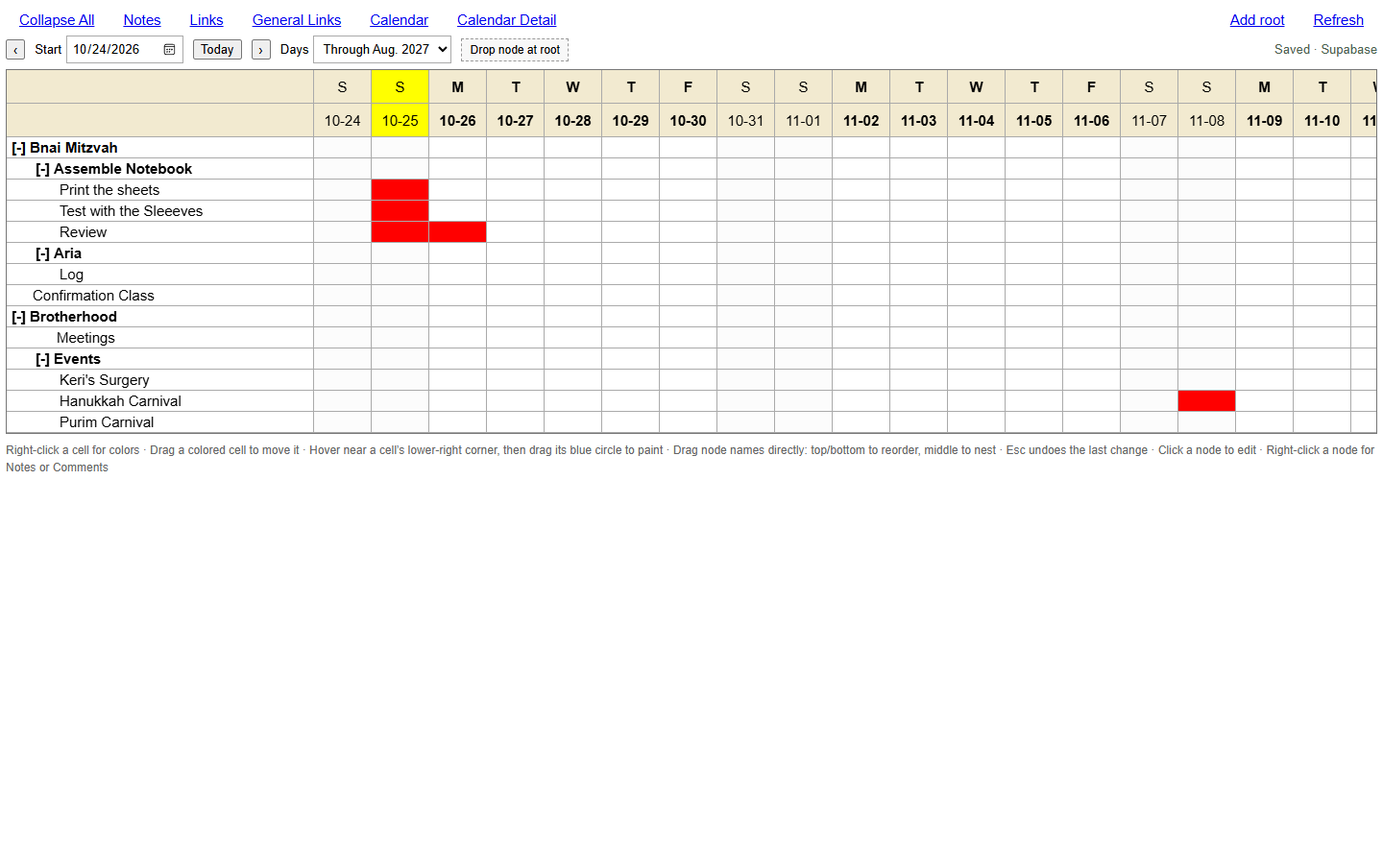
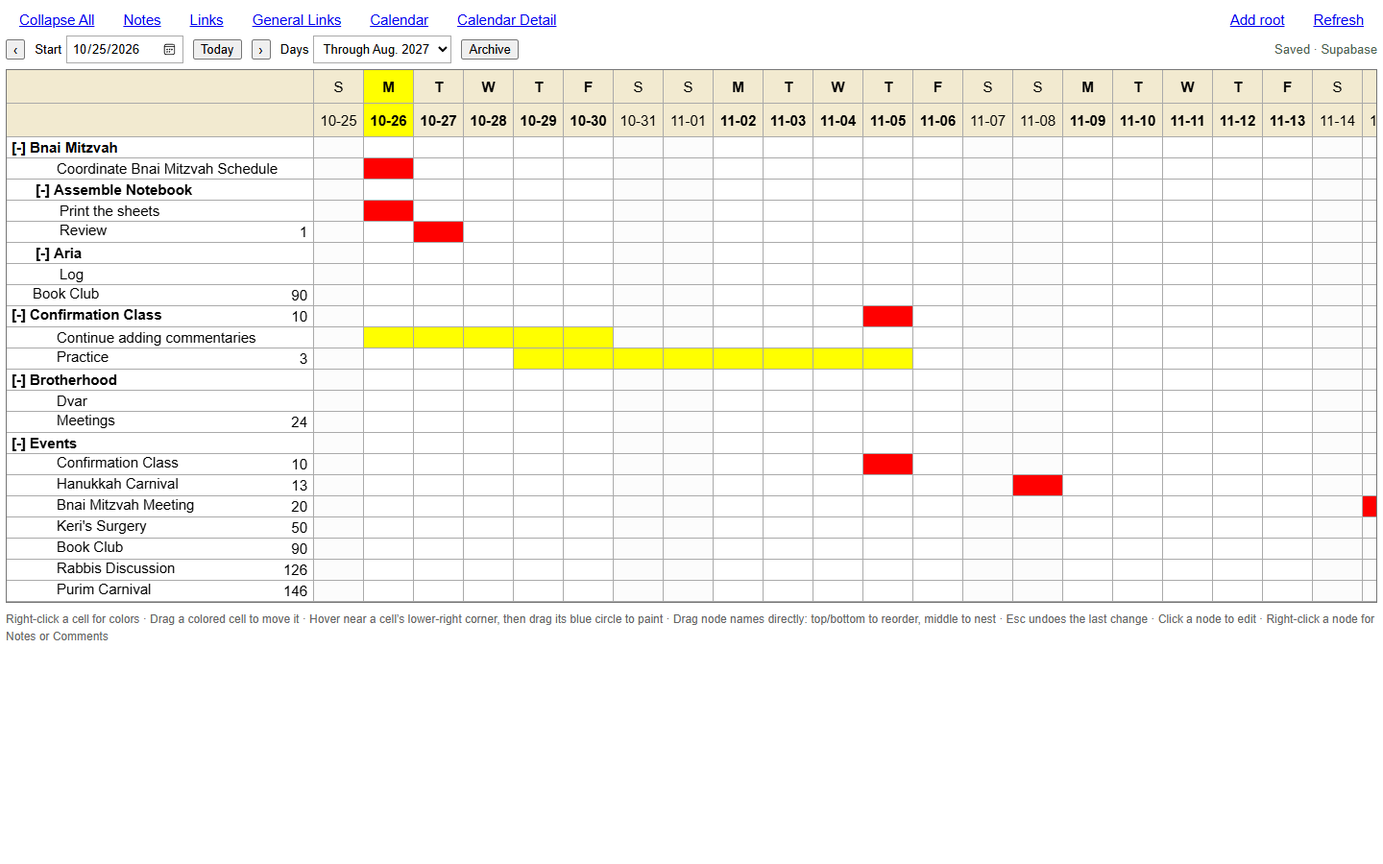
Use red yellow green schedules, compact dates, and archive controls

diff --git a/src/app.js b/src/app.js
@@ -1,6 +1,6 @@
 import './style.css';
 import * as api from './api.js';
-import {children,level,height,visible,actions,iso,addDays} from './model.js';
+import {children,level,height,visible,archivedRoots,actions,iso,addDays} from './model.js';
 import {nodeDrop,dayOffset,cellTooltip,nodeDayOffset,rangesOf as barRanges,colorsOn as barColors,colorFill} from './interactions.js';
 import {installGridInteractions} from './grid-events.js';
 import {actionDiff} from './history.js';
@@ -26,13 +26,13 @@ function dateCount(){return $('#days').value==='through-aug-2027'?Math.max(1,day
 function dates(){return Array.from({length:dateCount()},(_,i)=>addDays(start.value,i));}
 function select(id){selected=id;document.querySelectorAll('.node[data-id]').forEach(n=>n.classList.toggle('selected',n.dataset.id===id));}
 function selectCell(id,day){activeCell={id,day};select(id);document.querySelectorAll('.cell').forEach(cell=>{const active=cell.dataset.nodeId===id&&cell.dataset.day===day;cell.classList.toggle('cell-selected',active);cell.setAttribute('aria-selected',String(active));});}
-function render(){const parents=nodes.filter(n=>children(nodes,n.id).length),anyCollapsed=parents.some(n=>collapsed.has(n.id));$('#expand-toggle').textContent=anyCollapsed?'Expand All':'Collapse All';$('#expand-toggle').setAttribute('aria-expanded',String(!anyCollapsed));const table=el('table'),head=el('thead'),days=dates();
+function render(){const parents=visible(nodes,new Set()).filter(n=>children(nodes,n.id).some(child=>!child.archived)),anyCollapsed=parents.some(n=>collapsed.has(n.id));$('#expand-toggle').textContent=anyCollapsed?'Expand All':'Collapse All';$('#expand-toggle').setAttribute('aria-expanded',String(!anyCollapsed));const table=el('table'),head=el('thead'),days=dates();
  for(let row=0;row<2;row++){const tr=el('tr'),blank=el('th');blank.className='node head';blank.setAttribute('aria-label',row?'Dates':'Nodes');tr.append(blank);for(const day of days){const d=new Date(day+'T12:00:00'),th=el('th',row?day.slice(5):['S','M','T','W','T','F','S'][d.getDay()]);th.className=(d.getDay()%6===0?'weekend':'weekday')+(day===iso(new Date())?' today':'');th.dataset.day=day;th.setAttribute('aria-label',cellTooltip(day,undefined,iso(new Date())));th.setAttribute('aria-describedby','day-tooltip');tr.append(th);}head.append(tr);}table.append(head);
- const rows=visible(nodes,collapsed);let siblingAnchor=null;if(draft?.action==='Sibling'){const index=rows.findIndex(n=>n.id===draft.node.id);if(index>=0){let last=index;while(last+1<rows.length&&rows[last+1].depth>rows[index].depth)last++;siblingAnchor=rows[last].id;}}const body=el('tbody');for(const node of rows){const tr=el('tr'),td=el('td'),hasChildren=children(nodes,node.id).length>0;td.className='node'+(hasChildren?' parent':'')+(selected===node.id?' selected':'');td.dataset.id=node.id;td.draggable=true;td.tabIndex=0;td.style.paddingLeft=`${5+(node.depth-1)*25}px`;td.style.color=node.text_color;td.title=`${node.title} · Level ${node.depth}${node.notes?' · Has notes':''}`;
+ const rows=visible(nodes,collapsed);let siblingAnchor=null;if(draft?.action==='Sibling'){const index=rows.findIndex(n=>n.id===draft.node.id);if(index>=0){let last=index;while(last+1<rows.length&&rows[last+1].depth>rows[index].depth)last++;siblingAnchor=rows[last].id;}}const body=el('tbody');for(const node of rows){const tr=el('tr'),td=el('td'),hasChildren=children(nodes,node.id).some(child=>!child.archived);td.className='node'+(hasChildren?' parent':'')+(selected===node.id?' selected':'');td.dataset.id=node.id;td.draggable=true;td.tabIndex=0;td.style.paddingLeft=`${5+(node.depth-1)*25}px`;td.style.color=node.text_color;td.title=`${node.title} · Level ${node.depth}${node.notes?' · Has notes':''}`;
  if(hasChildren){const toggle=el('button',collapsed.has(node.id)?'[+]':'[-]');toggle.className='toggle';toggle.setAttribute('aria-label',`${collapsed.has(node.id)?'Expand':'Collapse'} ${node.title}`);toggle.setAttribute('aria-expanded',String(!collapsed.has(node.id)));toggle.onclick=e=>{e.stopPropagation();collapsed.has(node.id)?collapsed.delete(node.id):collapsed.add(node.id);remember();render();};td.append(toggle);}else if(node.depth<3){const space=el('span','');space.style.display='inline-block';space.style.width='22px';td.append(space);}
  const offset=nodeDayOffset(node,iso(new Date()));if(offset!==null&&offset!==0){const count=el('span',String(offset));count.className='node-offset';count.setAttribute('aria-label',`${offset} days from today`);td.append(count);}td.append(document.createTextNode(node.title));td.onclick=()=>{select(node.id);openEditor('Edit',node);};td.oncontextmenu=e=>{e.preventDefault();select(node.id);openMenu(node,e.clientX,e.clientY);};td.onkeydown=e=>{if(e.target!==td)return;if(e.key==='ContextMenu'||(e.shiftKey&&e.key==='F10')){e.preventDefault();const r=td.getBoundingClientRect();select(node.id);openMenu(node,r.left+30,r.bottom);}if(e.key==='Enter'){select(node.id);openEditor('Edit',node);}};tr.append(td);
  for(const day of days){const cell=el('td');const d=new Date(day+'T12:00:00');cell.className='cell'+(d.getDay()%6===0?' weekend-cell':'');cell.dataset.day=day;cell.dataset.nodeId=node.id;cell.classList.toggle('cell-selected',activeCell?.id===node.id&&activeCell?.day===day);cell.setAttribute('aria-selected',String(activeCell?.id===node.id&&activeCell?.day===day));cell.tabIndex=0;cell.setAttribute('aria-label',`${node.title}, ${day}`);const colors=barColors(node,day);if(colors.length){cell.classList.add('bar');cell.style.setProperty('--bar',colorFill(colors));}cell.setAttribute('aria-describedby','day-tooltip');const fill=el('button');fill.className='fill-handle';fill.type='button';fill.setAttribute('aria-label','Paint from this cell');fill.onclick=e=>{e.stopPropagation();};cell.append(fill);cell.onclick=()=>selectCell(node.id,day);cell.ondblclick=e=>{if(!e.target.closest('.fill-handle')){selectCell(node.id,day);openEditor('Edit',node,day);}};tr.append(cell);}if(draft?.action==='Add parent'&&draft.node.id===node.id)body.append(draftRow(days.length,node.depth));body.append(tr);if(draft?.action==='Add child'&&draft.node.id===node.id)body.append(draftRow(days.length,node.depth+1));if(node.id===siblingAnchor)body.append(draftRow(days.length,level(nodes,draft.node)));}if(draft?.action==='Add root')body.append(draftRow(days.length,1));table.append(body);$('#chart').replaceChildren(table);if(!nodes.length&&!draft){const empty=el('p','No nodes yet. Use Add root to begin.');empty.className='empty';$('#chart').append(empty);}}
-function openMenu(node,x,y){const menu=$('#menu');menu.replaceChildren();for(const action of actions(nodes,node)){const button=el('button',action);button.setAttribute('role','menuitem');button.onclick=()=>{menu.hidden=true;if(action==='Delete')deleteNode(node);else if(action==='Edit')openEditor(action,node);else if(action==='Notes')nodeDetails.openNotes(node);else if(action==='Comments')nodeDetails.openComments(node);else startDraft(action,node);};menu.append(button);}menu.hidden=false;const r=menu.getBoundingClientRect();menu.style.left=`${Math.max(0,Math.min(x,innerWidth-r.width-8))}px`;menu.style.top=`${Math.max(0,Math.min(y,innerHeight-r.height-8))}px`;menu.firstChild.focus();}
+function openMenu(node,x,y){const menu=$('#menu');menu.replaceChildren();for(const action of actions(nodes,node)){const button=el('button',action);button.setAttribute('role','menuitem');button.onclick=()=>{menu.hidden=true;if(action==='Delete')deleteNode(node);else if(action==='Edit')openEditor(action,node);else if(action==='Notes')nodeDetails.openNotes(node);else if(action==='Comments')nodeDetails.openComments(node);else if(action==='Archive')archiveNode(node);else startDraft(action,node);};menu.append(button);}menu.hidden=false;const r=menu.getBoundingClientRect();menu.style.left=`${Math.max(0,Math.min(x,innerWidth-r.width-8))}px`;menu.style.top=`${Math.max(0,Math.min(y,innerHeight-r.height-8))}px`;menu.firstChild.focus();}
 document.addEventListener('pointerdown',e=>{if(!$('#menu').contains(e.target))$('#menu').hidden=true;});document.addEventListener('keydown',e=>{if(e.key==='Escape'&&!$('#menu').hidden){e.preventDefault();$('#menu').hidden=true;}const m=$('#menu');if(!m.hidden&&['ArrowDown','ArrowUp'].includes(e.key)){e.preventDefault();const a=[...m.children],i=a.indexOf(document.activeElement);a[(i+(e.key==='ArrowDown'?1:a.length-1))%a.length].focus();}});
 function startDraft(action,node=null){
  if(busy)return;if(draft){status('Finish or cancel the new row first.',true);$('#draft-name')?.focus();return;}
@@ -60,7 +60,7 @@ function addRange(bar={}){
 $('#add-range').onclick=()=>addRange({start_date:iso(new Date()),end_date:iso(new Date())});
 function moveChoices(node){
  const choices=new Map([[1,[null]],[2,[]],[3,[]],[4,[]]]);
- for(const parent of nodes){try{nodeDrop(nodes,node,parent,'inside');choices.get(level(nodes,parent)+1)?.push(parent);}catch{}}
+ for(const parent of visible(nodes,new Set())){try{nodeDrop(nodes,node,parent,'inside');choices.get(level(nodes,parent)+1)?.push(parent);}catch{}}
  return choices;
 }
 function fillParents(){
@@ -90,6 +90,15 @@ $('#form').onsubmit=async e=>{
  data.start_date=data.bars[0]?.start_date||null;data.end_date=data.bars[0]?.end_date||null;data.color=data.bars[0]?.color||'#ef8080';
  $('#save').disabled=true;$('#cancel').disabled=true;try{const parentId=data.parent_id||null;if(parentId!==editing.node.parent_id){const parent=nodes.find(n=>n.id===parentId);if(parentId&&!parent)throw Error('The selected parent no longer exists.');Object.assign(data,nodeDrop(nodes,editing.node,parent||null,'inside'));}else delete data.parent_id;await mutate(async()=>{await api.update(editing.node.id,data);if('parent_id' in data){let parent=nodes.find(n=>n.id===data.parent_id);while(parent){collapsed.delete(parent.id);parent=nodes.find(n=>n.id===parent.parent_id);}remember();}selected=editing.node.id;});$('#editor').close();}catch(e){$('#form-error').textContent=e.message;}finally{$('#save').disabled=false;$('#cancel').disabled=false;}
 };
+async function archiveNode(node){try{await mutate(async()=>{await api.update(node.id,{archived:true});selected=null;activeCell=null;});}catch{}}
+function fillArchive(content){
+ content.replaceChildren();const archived=archivedRoots(nodes);
+ if(!archived.length){content.append(el('p','No archived nodes. Right-click a node and choose Archive to move its branch here.'));return;}
+ for(const node of archived){const entry=el('section'),path=[];let current=node;while(current){path.unshift(current.title);current=nodes.find(n=>n.id===current.parent_id);}entry.className='archive-entry';entry.append(el('span',path.join(' › ')));
+  const restore=el('button','Restore');restore.setAttribute('aria-label',`Restore ${node.title}`);restore.onclick=async()=>{restore.disabled=true;try{await mutate(async()=>{await api.update(node.id,{archived:false});let parent=nodes.find(n=>n.id===node.parent_id);while(parent){collapsed.delete(parent.id);parent=nodes.find(n=>n.id===parent.parent_id);}remember();selected=node.id;});fillArchive(content);}catch(e){content.append(el('p',e.message));restore.disabled=false;}};entry.append(restore);content.append(entry);
+ }
+}
+$('#archive').onclick=()=>showPanel('Archive',fillArchive);
 function deleteNode(node){const count=(function descendants(id){return children(nodes,id).reduce((s,n)=>s+1+descendants(n.id),0);})(node.id);showPanel('Delete node',content=>{content.append(el('p',`Delete “${node.title}”${count?` and its ${count} descendant${count===1?'':'s'}`:''}?`));const button=el('button','Delete');button.onclick=async()=>{button.disabled=true;try{await mutate(()=>api.remove(node.id));if(selected===node.id)selected=null;$('#panel').close();}catch(e){content.append(el('p',e.message));button.disabled=false;}};content.append(button);});}
 function showPanel(title,fill){$('#panel-title').textContent=title;$('#panel-content').replaceChildren();fill($('#panel-content'));$('#panel').showModal();}
 $('#panel-close').onclick=()=>$('#panel').close();
@@ -98,9 +107,9 @@ $('#notes').onclick=()=>{const n=selectedNode();if(n)nodeDetails.openNotes(n);};
 function appendLinks(content,text){for(const line of text.split('\n').filter(l=>l.trim())){try{const url=new URL(line.trim());if(!['http:','https:'].includes(url.protocol))throw Error();const a=el('a',line);a.href=url.href;a.target='_blank';a.rel='noopener noreferrer';content.append(a,el('br'));}catch{content.append(el('p',line));}}}
 $('#links').onclick=()=>{const n=selectedNode();if(n)showPanel(`Links · ${n.title}`,c=>{if(n.links)appendLinks(c,n.links);else c.append(el('p','No links yet.'));const b=el('button','Edit links');b.onclick=()=>{$('#panel').close();openEditor('Edit',n);$('#form').elements.links.focus();};c.append(b);});};
 $('#general').onclick=async()=>{try{const [settings]=await api.request('gantt03_settings?id=eq.1');showPanel('General Links',c=>{appendLinks(c,settings.general_links);const label=el('label','URLs, one per line'),text=el('textarea');text.rows=7;text.value=settings.general_links;label.append(text);c.append(label);const save=el('button','Save links');save.onclick=async()=>{save.disabled=true;try{await mutate(()=>api.request('gantt03_settings?id=eq.1','PATCH',{general_links:text.value}));$('#panel').close();}catch(e){c.append(el('p',e.message));save.disabled=false;}};c.append(save);});}catch(e){status(e.message,true);}};
-function calendar(detail){showPanel(detail?'Calendar Detail':'Calendar',c=>{const end=addDays(start.value,dateCount()-1),scheduled=nodes.flatMap(n=>barRanges(n).map(bar=>({...n,...bar}))).filter(n=>n.start_date&&n.start_date<=end&&(n.end_date||n.start_date)>=start.value).sort((a,b)=>a.start_date.localeCompare(b.start_date));c.append(el('p',`${start.value} — ${end}`));if(!scheduled.length)c.append(el('p','No scheduled nodes in this date range.'));for(const n of scheduled){const section=el('section'),b=el('button',`${n.start_date}${n.end_date&&n.end_date!==n.start_date?' — '+n.end_date:''} · ${n.title}`);b.className='calendar-event';b.style.borderLeft='8px solid '+(/^#[0-9a-f]{6}$/i.test(n.color)?n.color:'#ef8080');b.onclick=()=>{$('#panel').close();openEditor('Edit',n);};section.append(b);if(detail){const path=[];let p=n;while(p){path.unshift(p.title);p=nodes.find(x=>x.id===p.parent_id);}section.append(el('p',path.join(' › ')),el('p',n.notes||'No notes'));appendLinks(section,n.links);}c.append(section);}});}
+function calendar(detail){showPanel(detail?'Calendar Detail':'Calendar',c=>{const end=addDays(start.value,dateCount()-1),scheduled=visible(nodes,new Set()).flatMap(n=>barRanges(n).map(bar=>({...n,...bar}))).filter(n=>n.start_date&&n.start_date<=end&&(n.end_date||n.start_date)>=start.value).sort((a,b)=>a.start_date.localeCompare(b.start_date));c.append(el('p',`${start.value} — ${end}`));if(!scheduled.length)c.append(el('p','No scheduled nodes in this date range.'));for(const n of scheduled){const section=el('section'),b=el('button',`${n.start_date}${n.end_date&&n.end_date!==n.start_date?' — '+n.end_date:''} · ${n.title}`);b.className='calendar-event';b.style.borderLeft='8px solid '+(/^#[0-9a-f]{6}$/i.test(n.color)?n.color:'#ef8080');b.onclick=()=>{$('#panel').close();openEditor('Edit',n);};section.append(b);if(detail){const path=[];let p=n;while(p){path.unshift(p.title);p=nodes.find(x=>x.id===p.parent_id);}section.append(el('p',path.join(' › ')),el('p',n.notes||'No notes'));appendLinks(section,n.links);}c.append(section);}});}
 $('#calendar').onclick=()=>calendar(false);$('#detail').onclick=()=>calendar(true);
-$('#expand-toggle').onclick=()=>{const parents=nodes.filter(n=>children(nodes,n.id).length);if(parents.some(n=>collapsed.has(n.id)))collapsed.clear();else collapsed=new Set(parents.map(n=>n.id));remember();render();};
+$('#expand-toggle').onclick=()=>{const parents=visible(nodes,new Set()).filter(n=>children(nodes,n.id).some(child=>!child.archived));if(parents.some(n=>collapsed.has(n.id)))collapsed.clear();else collapsed=new Set(parents.map(n=>n.id));remember();render();};
 $('#add').onclick=()=>startDraft('Add root');$('#refresh').onclick=refresh;start.onchange=()=>{if(start.value)render();};$('#days').onchange=render;$('#today').onclick=()=>{start.value=addDays(iso(new Date()),-1);render();$('#chart').scrollLeft=0;};$('#previous').onclick=()=>{start.value=addDays(start.value,-30);render();};$('#next').onclick=()=>{start.value=addDays(start.value,30);render();};
 const nodeDetails=createNodeDetails({mutate,isBusy:()=>busy,status});
 installGridInteractions({getNodes:()=>nodes,getVisible:()=>visible(nodes,collapsed),isBusy:()=>busy,

diff --git a/src/style.css b/src/style.css
@@ -1,7 +1,7 @@
-*{box-sizing:border-box}body{margin:6px;font:15px Arial,sans-serif;color:#000;background:#fff}button,input,select,textarea{font:inherit}nav{display:flex;align-items:center;gap:30px;padding:6px 14px 8px;flex-wrap:wrap}nav button{border:0;padding:0;background:transparent;color:#00e;text-decoration:underline;cursor:pointer}.spacer{flex:1}.range{display:flex;align-items:center;gap:10px;margin:0 0 6px;min-height:27px;font-size:13px}.range button{cursor:pointer}.range input{font-size:13px}.range label{display:flex;gap:5px;align-items:center}#status{margin-left:auto;color:#4d6350}#status.error{color:#bc1111}main{overflow:auto;max-height:calc(100vh - 115px);border:1px solid #777;min-height:180px}table{border-collapse:separate;border-spacing:0;table-layout:fixed;width:max-content}th,td{border-right:1px solid #aaa;border-bottom:1px solid #aaa;padding:0;height:22px;min-width:60px;width:60px;text-align:center}thead{position:sticky;top:0;z-index:3}th{background:#f2ead0;font-weight:normal;height:35px}.weekday{font-weight:bold}.weekend{font-weight:normal}.today{background:#ff0!important}.node{position:sticky;left:0;z-index:2;background:#fff;width:320px;min-width:320px;max-width:320px;text-align:left;overflow:hidden;white-space:nowrap;text-overflow:ellipsis;padding-right:6px;cursor:default}.node.head{z-index:4;background:#f2ead0}.node.selected{background:#007ed5;color:#fff!important}.node.parent{font-weight:bold}.node:focus-visible{outline:2px solid #007ed5;outline-offset:-2px}.toggle{font:inherit;padding:0;border:0;background:none;color:inherit;cursor:pointer;margin-right:4px}.cell{cursor:default}.cell:hover{box-shadow:inset 0 0 0 2px #007ed5}.cell.bar{background:var(--bar)}.cell.weekend-cell{background-color:#fcfcfc}.cell.bar.weekend-cell{background:var(--bar)}footer{font-size:12px;color:#666;padding-top:8px}#menu{position:fixed;z-index:10;background:#fff;border:1px solid #888;box-shadow:2px 3px 9px #0003;padding:4px;min-width:155px}#menu button{display:block;border:0;background:#fff;text-align:left;width:100%;padding:7px 12px;cursor:pointer}#menu button:hover,#menu button:focus{background:#007ed5;color:white}dialog{border:1px solid #888;border-radius:3px;max-width:min(94vw,620px);width:540px;padding:22px;max-height:90vh;overflow:auto}dialog::backdrop{background:#0004}h2{font-size:20px;margin:0 0 16px}form>label{display:flex;flex-direction:column;gap:5px;margin:12px 0}input,textarea,select{border:1px solid #aaa;padding:5px}textarea{resize:vertical}.fields{display:flex;gap:16px}.fields label{flex:1;display:flex;flex-direction:column;gap:5px;min-width:0}.fields input{width:100%}input[type=color]{height:32px}.actions{display:flex;justify-content:flex-end;gap:10px;margin-top:18px}.actions button{padding:6px 18px;cursor:pointer}#save{background:#007ed5;border:1px solid #006db8;color:white}#form-error{color:#bd1717;font-size:14px}#panel-content{white-space:pre-wrap;overflow-wrap:anywhere}#panel-content section{padding:10px 0;border-bottom:1px solid #ddd}#panel-content h3{font-size:15px;margin:0 0 6px}#panel-content textarea{width:100%}.empty{padding:32px;color:#666}.calendar-event{display:block;text-align:left;padding:4px 0;background:none;border:0;color:#00e;cursor:pointer}button:disabled{opacity:.55;cursor:wait}@media(max-width:700px){nav{gap:14px;padding-left:0}.range{flex-wrap:wrap}.node{width:260px;min-width:260px;max-width:260px}main{max-height:calc(100vh - 180px)}#status{margin-left:0}}
+*{box-sizing:border-box}body{margin:6px;font:15px Arial,sans-serif;color:#000;background:#fff}button,input,select,textarea{font:inherit}nav{display:flex;align-items:center;gap:30px;padding:6px 14px 8px;flex-wrap:wrap}nav button{border:0;padding:0;background:transparent;color:#00e;text-decoration:underline;cursor:pointer}.spacer{flex:1}.range{display:flex;align-items:center;gap:10px;margin:0 0 6px;min-height:27px;font-size:13px}.range button{cursor:pointer}.range input{font-size:13px}.range label{display:flex;gap:5px;align-items:center}#status{margin-left:auto;color:#4d6350}#status.error{color:#bc1111}main{overflow:auto;max-height:calc(100vh - 115px);border:1px solid #777;min-height:180px}table{border-collapse:separate;border-spacing:0;table-layout:fixed;width:max-content}th,td{border-right:1px solid #aaa;border-bottom:1px solid #aaa;padding:0;height:22px;min-width:52px;width:52px;text-align:center}thead{position:sticky;top:0;z-index:3}th{background:#f2ead0;font-weight:normal;height:35px}.weekday{font-weight:bold}.weekend{font-weight:normal}.today{background:#ff0!important}.node{position:sticky;left:0;z-index:2;background:#fff;width:320px;min-width:320px;max-width:320px;text-align:left;overflow:hidden;white-space:nowrap;text-overflow:ellipsis;padding-right:6px;cursor:default}.node.head{z-index:4;background:#f2ead0}.node.selected{background:#007ed5;color:#fff!important}.node.parent{font-weight:bold}.node:focus-visible{outline:2px solid #007ed5;outline-offset:-2px}.toggle{font:inherit;padding:0;border:0;background:none;color:inherit;cursor:pointer;margin-right:4px}.cell{cursor:default}.cell:hover{box-shadow:inset 0 0 0 2px #007ed5}.cell.bar{background:var(--bar)}.cell.weekend-cell{background-color:#fcfcfc}.cell.bar.weekend-cell{background:var(--bar)}footer{font-size:12px;color:#666;padding-top:8px}#menu{position:fixed;z-index:10;background:#fff;border:1px solid #888;box-shadow:2px 3px 9px #0003;padding:4px;min-width:155px}#menu button{display:block;border:0;background:#fff;text-align:left;width:100%;padding:7px 12px;cursor:pointer}#menu button:hover,#menu button:focus{background:#007ed5;color:white}dialog{border:1px solid #888;border-radius:3px;max-width:min(94vw,620px);width:540px;padding:22px;max-height:90vh;overflow:auto}dialog::backdrop{background:#0004}h2{font-size:20px;margin:0 0 16px}form>label{display:flex;flex-direction:column;gap:5px;margin:12px 0}input,textarea,select{border:1px solid #aaa;padding:5px}textarea{resize:vertical}.fields{display:flex;gap:16px}.fields label{flex:1;display:flex;flex-direction:column;gap:5px;min-width:0}.fields input{width:100%}input[type=color]{height:32px}.actions{display:flex;justify-content:flex-end;gap:10px;margin-top:18px}.actions button{padding:6px 18px;cursor:pointer}#save{background:#007ed5;border:1px solid #006db8;color:white}#form-error{color:#bd1717;font-size:14px}#panel-content{white-space:pre-wrap;overflow-wrap:anywhere}#panel-content section{padding:10px 0;border-bottom:1px solid #ddd}#panel-content h3{font-size:15px;margin:0 0 6px}#panel-content textarea{width:100%}.empty{padding:32px;color:#666}.calendar-event{display:block;text-align:left;padding:4px 0;background:none;border:0;color:#00e;cursor:pointer}button:disabled{opacity:.55;cursor:wait}@media(max-width:700px){nav{gap:14px;padding-left:0}.range{flex-wrap:wrap}.node{width:260px;min-width:260px;max-width:260px}main{max-height:calc(100vh - 180px)}#status{margin-left:0}}
  [hidden]{display:none!important}
 .node-detail{float:right;border:0;background:transparent;color:inherit;cursor:pointer;padding:0 3px;font-size:15px;line-height:20px;font-weight:normal}.node-detail:hover{background:#ddd;color:#000}.draft-node{overflow:visible;background:#fff9d9;white-space:nowrap}.draft-node input{width:calc(100% - 48px);min-width:30px;font-size:14px;padding:2px}.draft-action{border:0;background:transparent;padding:2px 4px;cursor:pointer;color:#006bb6}.draft-hint{text-align:left;padding-left:10px;color:#776736;background:#fffdf1;font-size:12px}.bar-range{display:flex;gap:8px;align-items:flex-end;margin:8px 0}.bar-range label{display:flex;flex-direction:column;gap:4px;min-width:0;flex:1;font-size:13px}.bar-range label:last-of-type{flex:0 0 52px}.bar-range input{width:100%;min-width:0}.bar-range button{height:31px;cursor:pointer}fieldset{border:1px solid #bbb;margin:12px 0;padding:10px}.hint{font-size:12px;color:#666;margin-bottom:0}
-#day-tooltip{position:fixed;z-index:20;background:#fff;color:#111;border:1px solid #aaa;box-shadow:0 2px 6px #0002;border-radius:3px;padding:4px 7px;font-size:13px;pointer-events:none}.cell{user-select:none;touch-action:pan-x pan-y}.color-dragging,.color-dragging *{user-select:none!important;cursor:move!important}.paint-preview{outline:2px solid #007ed5;outline-offset:-2px}.cell:focus-visible{outline:2px solid #007ed5;outline-offset:-2px}.node[draggable=true]{cursor:grab}.drag-source{opacity:.45}.drop-before{box-shadow:inset 0 3px #007ed5}.drop-after{box-shadow:inset 0 -3px #007ed5}.drop-inside{outline:2px solid #007ed5;outline-offset:-2px;background:#dcefff!important;color:#000!important}.drop-invalid{outline:2px solid #d22;outline-offset:-2px}#root-drop{font-size:12px;border:1px dashed #999;background:#f8f8f8;padding:4px 8px}footer{line-height:1.5}
+#day-tooltip{position:fixed;z-index:20;background:#fff;color:#111;border:1px solid #aaa;box-shadow:0 2px 6px #0002;border-radius:3px;padding:4px 7px;font-size:13px;pointer-events:none}.cell{user-select:none;touch-action:pan-x pan-y}.color-dragging,.color-dragging *{user-select:none!important;cursor:move!important}.paint-preview{outline:2px solid #007ed5;outline-offset:-2px}.cell:focus-visible{outline:2px solid #007ed5;outline-offset:-2px}.node[draggable=true]{cursor:grab}.drag-source{opacity:.45}.drop-before{box-shadow:inset 0 3px #007ed5}.drop-after{box-shadow:inset 0 -3px #007ed5}.drop-inside{outline:2px solid #007ed5;outline-offset:-2px;background:#dcefff!important;color:#000!important}.drop-invalid{outline:2px solid #d22;outline-offset:-2px}footer{line-height:1.5}
 
 #day-tooltip{white-space:nowrap;width:max-content;max-width:calc(100vw - 8px);overflow:hidden;text-overflow:ellipsis;line-height:1.5}.node[draggable=true]{cursor:move}
 .cell{position:relative}.cell.bar{cursor:move}.cell-selected{outline:2px solid #1a73e8;outline-offset:-1px;z-index:1}.cell-selected:hover{box-shadow:none}.fill-handle{display:none;position:absolute;right:-5px;bottom:-5px;width:10px;height:10px;padding:0;border:1px solid white;border-radius:50%;background:#1a73e8;cursor:crosshair;touch-action:none;box-shadow:none;z-index:2}.corner-hot{z-index:1}.corner-hot>.fill-handle{display:block}.fill-handle:hover{background:#1a73e8;cursor:crosshair}.fill-handle:focus-visible{outline:2px solid #1a73e8;outline-offset:2px}.color-dragging.painting,.color-dragging.painting *{cursor:crosshair!important}
@@ -9,3 +9,5 @@
 .node-offset{float:right;margin-left:8px;padding-left:4px;font-weight:normal;font-variant-numeric:tabular-nums;color:inherit;line-height:21px}
 #notes-dialog.has-notes-grid{width:1050px;max-width:96vw}#rich-notes table{border-collapse:collapse;border-spacing:0;width:100%;min-width:720px;table-layout:fixed;margin:8px 0}#rich-notes table td,#rich-notes table th{border:1px solid #aaa;width:auto;min-width:0;height:30px;padding:5px;text-align:left;vertical-align:top;white-space:pre-wrap;overflow-wrap:anywhere;background:#fff;font-weight:normal;cursor:text}#rich-notes table td:focus-within{outline:1px solid #1a73e8}
 .fields select{width:100%;min-width:0}
+
+.archive-entry{display:flex;gap:16px;align-items:center;justify-content:space-between;white-space:normal}.archive-entry button{padding:5px 12px;cursor:pointer;flex-shrink:0}

diff --git a/src/grid-events.js b/src/grid-events.js
@@ -2,7 +2,7 @@ import {iso} from './model.js';
 import {cellTooltip,colorsOn,colorFill,rangesOf,paintRange,nodeDrop} from './interactions.js';
 
 export function installGridInteractions({getNodes,getVisible,isBusy,saveColors,moveNode,selectCell,status,undo}){
- const chart=document.querySelector('#chart'),menu=document.querySelector('#menu'),tip=document.querySelector('#day-tooltip'),rootDrop=document.querySelector('#root-drop');
+ const chart=document.querySelector('#chart'),menu=document.querySelector('#menu'),tip=document.querySelector('#day-tooltip');
  let gesture=null,nodeDrag=null,suppressClick=false,scrollFrame=0;
  const node=id=>getNodes().find(n=>n.id===id);
  const dayCell=target=>target?.closest?.('.cell[data-day]');
@@ -26,7 +26,7 @@ export function installGridInteractions({getNodes,getVisible,isBusy,saveColors,m
  chart.addEventListener('pointermove',tooltip);chart.addEventListener('pointerover',tooltip);chart.addEventListener('pointerleave',hideTip);chart.addEventListener('scroll',hideTip);
  function showMenu(cell,e){
   if(isBusy())return;e.preventDefault();hideTip();selectCell(cell.dataset.nodeId,cell.dataset.day);menu.replaceChildren();
-  for(const [label,color] of [['Red','#ff0000'],['Blue','#0000ff'],['Green','#008000'],['Clear',null]]){
+  for(const [label,color] of [['Red','#ff0000'],['Yellow','#ffff00'],['Green','#008000'],['Clear',null]]){
    const button=document.createElement('button');button.textContent=label;button.setAttribute('role','menuitem');button.style.borderLeft=`6px solid ${color||'#ddd'}`;
    button.onclick=async()=>{menu.hidden=true;const n=node(cell.dataset.nodeId);if(n)await persist([{id:n.id,expected_bars:rangesOf(n),bars:paintRange(rangesOf(n),cell.dataset.day,cell.dataset.day,color?[color]:[])}]);};menu.append(button);
   }
@@ -94,19 +94,19 @@ export function installGridInteractions({getNodes,getVisible,isBusy,saveColors,m
  window.addEventListener('blur',()=>{if(gesture)finish({pointerId:gesture.pointerId},true);});
 
  // Native node dragging carries the entire branch with it.
- function resetDrop(){chart.querySelectorAll('.drop-before,.drop-after,.drop-inside,.drop-invalid').forEach(n=>n.classList.remove('drop-before','drop-after','drop-inside','drop-invalid'));rootDrop.classList.remove('drop-inside','drop-invalid');}
+ function resetDrop(){chart.querySelectorAll('.drop-before,.drop-after,.drop-inside,.drop-invalid').forEach(n=>n.classList.remove('drop-before','drop-after','drop-inside','drop-invalid'));}
  function placement(e,target){const r=target.getBoundingClientRect(),fraction=(e.clientY-r.top)/r.height;return fraction<.28?'before':fraction>.72?'after':'inside';}
  chart.addEventListener('dragstart',e=>{
   const td=e.target.closest('.node[data-id]');if(!td||e.target.closest('button,input')||isBusy()||document.querySelector('.draft-row')){e.preventDefault();return;}
   nodeDrag=td.dataset.id;hideTip();e.dataTransfer.effectAllowed='move';e.dataTransfer.setData('text/plain',nodeDrag);td.classList.add('drag-source');
  });
- function dragOver(e){if(!nodeDrag)return;const target=e.target.closest('.node[data-id]'),isRoot=e.currentTarget===rootDrop;if(!target&&!isRoot)return;
-  e.preventDefault();resetDrop();const mark=isRoot?rootDrop:target,place=isRoot?'inside':placement(e,target);
-  try{nodeDrop(getNodes(),node(nodeDrag),target?node(target.dataset.id):null,place);mark.classList.add('drop-'+place);e.dataTransfer.dropEffect='move';status(isRoot?'Move to root level':`${place==='inside'?'Move under':place==='before'?'Move before':'Move after'} ${node(target.dataset.id).title}`);}catch(err){mark.classList.add('drop-invalid');e.dataTransfer.dropEffect='none';status(err.message,true);}
+ function dragOver(e){if(!nodeDrag)return;const target=e.target.closest('.node[data-id]');if(!target)return;
+  e.preventDefault();resetDrop();const place=placement(e,target);
+  try{nodeDrop(getNodes(),node(nodeDrag),node(target.dataset.id),place);target.classList.add('drop-'+place);e.dataTransfer.dropEffect='move';status(`${place==='inside'?'Move under':place==='before'?'Move before':'Move after'} ${node(target.dataset.id).title}`);}catch(err){target.classList.add('drop-invalid');e.dataTransfer.dropEffect='none';status(err.message,true);}
  }
- async function drop(e){if(!nodeDrag)return;const target=e.target.closest('.node[data-id]'),isRoot=e.currentTarget===rootDrop;if(!target&&!isRoot)return;e.preventDefault();const id=nodeDrag;nodeDrag=null;resetDrop();chart.querySelectorAll('.drag-source').forEach(n=>n.classList.remove('drag-source'));
-  try{const values=nodeDrop(getNodes(),node(id),target?node(target.dataset.id):null,isRoot?'inside':placement(e,target));await moveNode(id,values);}catch(err){status(err.message,true);}
+ async function drop(e){if(!nodeDrag)return;const target=e.target.closest('.node[data-id]');if(!target)return;e.preventDefault();const id=nodeDrag;nodeDrag=null;resetDrop();chart.querySelectorAll('.drag-source').forEach(n=>n.classList.remove('drag-source'));
+  try{const values=nodeDrop(getNodes(),node(id),node(target.dataset.id),placement(e,target));await moveNode(id,values);}catch(err){status(err.message,true);}
  }
- chart.addEventListener('dragover',dragOver);chart.addEventListener('drop',drop);rootDrop.addEventListener('dragover',dragOver);rootDrop.addEventListener('drop',drop);
+ chart.addEventListener('dragover',dragOver);chart.addEventListener('drop',drop);
  document.addEventListener('dragend',()=>{nodeDrag=null;resetDrop();chart.querySelectorAll('.drag-source').forEach(n=>n.classList.remove('drag-source'));});
 }

diff --git a/tests/hierarchy.test.js b/tests/hierarchy.test.js
@@ -1,8 +1,13 @@
 import {test} from 'node:test';
 import assert from 'node:assert/strict';
-import {actions,level,height,visible,addDays} from '../src/model.js';
+import {actions,level,height,visible,archivedRoots,addDays} from '../src/model.js';
 const nodes=[{id:'a',parent_id:null,position:0},{id:'b',parent_id:'a',position:0},{id:'c',parent_id:'b',position:0},{id:'d',parent_id:'c',position:0}];
-test('fourth-level nodes allow siblings without adding a deeper level',()=>{assert.equal(level(nodes,nodes[3]),4);assert.deepEqual(actions(nodes,nodes[3]),['Sibling','Edit','Notes','Comments','Delete']);assert.deepEqual(actions(nodes,nodes[2]),['Add parent','Add child','Sibling','Edit','Notes','Comments','Delete']);});
+test('fourth-level nodes allow siblings without adding a deeper level',()=>{assert.equal(level(nodes,nodes[3]),4);assert.deepEqual(actions(nodes,nodes[3]),['Sibling','Edit','Notes','Comments','Archive','Delete']);assert.deepEqual(actions(nodes,nodes[2]),['Add parent','Add child','Sibling','Edit','Notes','Comments','Archive','Delete']);});
 test('wrapping a branch accounts for all descendant levels',()=>{assert.equal(height(nodes,nodes[0]),4);assert.equal(level(nodes,nodes[1])+height(nodes,nodes[1]),5);});
 test('collapse retains the parent and hides all descendants',()=>{assert.deepEqual(visible(nodes,new Set(['b'])).map(n=>n.id),['a','b']);assert.deepEqual(visible(nodes,new Set()).map(n=>n.depth),[1,2,3,4]);});
 test('date stepping works across month and year boundaries',()=>{assert.equal(addDays('2026-12-31',1),'2027-01-01');assert.equal(addDays('2028-02-28',1),'2028-02-29');});
+test('archiving a branch hides its descendants and preserves independent child archives',()=>{
+ const archived=nodes.map(n=>({...n,archived:n.id==='b'||n.id==='d'}));
+ assert.deepEqual(visible(archived,new Set()).map(n=>n.id),['a']);assert.deepEqual(archivedRoots(archived).map(n=>n.id),['b']);
+ archived[1].archived=false;assert.deepEqual(visible(archived,new Set()).map(n=>n.id),['a','b','c']);assert.deepEqual(archivedRoots(archived).map(n=>n.id),['d']);
+});

diff --git a/index.html b/index.html
@@ -4,7 +4,7 @@
  <button id="expand-toggle">Collapse All</button><button id="notes">Notes</button><button id="links">Links</button><button id="general">General Links</button><button id="calendar">Calendar</button><button id="detail">Calendar Detail</button>
  <span class="spacer"></span><button id="add">Add root</button><button id="refresh">Refresh</button>
 </nav>
-<div class="range"><button id="previous" aria-label="Previous month">‹</button><label>Start <input type="date" id="range-start"></label><button id="today">Today</button><button id="next" aria-label="Next month">›</button><label>Days <select id="days"><option value="through-aug-2027" selected>Through Aug. 2027</option><option>30</option><option>60</option><option>90</option><option>180</option><option>365</option></select></label><button id="root-drop" title="Drop a node here to move it to the root level">Drop node at root</button><span id="status" role="status">Connecting…</span></div>
+<div class="range"><button id="previous" aria-label="Previous month">‹</button><label>Start <input type="date" id="range-start"></label><button id="today">Today</button><button id="next" aria-label="Next month">›</button><label>Days <select id="days"><option value="through-aug-2027" selected>Through Aug. 2027</option><option>30</option><option>60</option><option>90</option><option>180</option><option>365</option></select></label><button id="archive">Archive</button><span id="status" role="status">Connecting…</span></div>
 <main id="chart" tabindex="0" aria-label="Gantt chart"></main>
 <footer>Right-click a cell for colors · Drag a colored cell to move it · Hover near a cell’s lower-right corner, then drag its blue circle to paint · Drag node names directly: top/bottom to reorder, middle to nest · Esc undoes the last change · Click a node to edit · Right-click a node for Notes or Comments</footer>
 <div id="day-tooltip" role="tooltip" hidden></div>

diff --git a/src/model.js b/src/model.js
@@ -1,7 +1,9 @@
 export function children(nodes,id){return nodes.filter(n=>n.parent_id===id).sort((a,b)=>a.position-b.position||a.id.localeCompare(b.id));}
 export function level(nodes,node){let d=1,p=node.parent_id;const seen=new Set([node.id]);while(p){if(seen.has(p))throw Error('Invalid hierarchy');seen.add(p);const parent=nodes.find(n=>n.id===p);if(!parent)break;d++;p=parent.parent_id;}return d;}
 export function height(nodes,node){return 1+Math.max(0,...children(nodes,node.id).map(n=>height(nodes,n)));}
-export function visible(nodes,collapsed){const result=[];function walk(parent,depth){for(const n of children(nodes,parent)){result.push({...n,depth});if(!collapsed.has(n.id))walk(n.id,depth+1);}}walk(null,1);return result;}
-export function actions(nodes,node){return level(nodes,node)===4?['Sibling','Edit','Notes','Comments','Delete']:['Add parent','Add child','Sibling','Edit','Notes','Comments','Delete'];}
+export function visible(nodes,collapsed){const result=[];function walk(parent,depth){for(const n of children(nodes,parent)){if(n.archived)continue;result.push({...n,depth});if(!collapsed.has(n.id))walk(n.id,depth+1);}}walk(null,1);return result;}
+export function actions(nodes,node){return level(nodes,node)===4?['Sibling','Edit','Notes','Comments','Archive','Delete']:['Add parent','Add child','Sibling','Edit','Notes','Comments','Archive','Delete'];}
 export function iso(date){return `${date.getFullYear()}-${String(date.getMonth()+1).padStart(2,'0')}-${String(date.getDate()).padStart(2,'0')}`;}
 export function addDays(value,count){const d=new Date(value+'T12:00:00');d.setDate(d.getDate()+count);return iso(d);}
+
+export function archivedRoots(nodes){const byId=new Map(nodes.map(n=>[n.id,n]));return nodes.filter(n=>{if(!n.archived)return false;let parent=byId.get(n.parent_id);while(parent){if(parent.archived)return false;parent=byId.get(parent.parent_id);}return true;});}

diff --git a/README.md b/README.md
@@ -13,7 +13,7 @@ npm run dev
 
 ## Use
 
-- Right-click a node (or Shift+F10): **Add parent, Add child, Sibling, Edit, Notes, Comments, Delete**. Level four has **Sibling, Edit, Notes, Comments, Delete**.
+- Right-click a node (or Shift+F10): **Add parent, Add child, Sibling, Edit, Notes, Comments, Archive, Delete**. Level four has **Sibling, Edit, Notes, Comments, Archive, Delete**.
 - **Sibling** inserts a row after the selected node's branch, with the same parent and indentation. It also works for root nodes and level-four nodes.
 - Add parent wraps a node and its branch. A wrapper that would exceed four levels is rejected atomically. The database also rejects cycles and fifth-level inserts.
 - Add root, Add child, and Add parent insert an inline name row. Enter or ✓ saves it; × cancels the draft. Add root creates a level-one node. Delete removes the selected node and all descendants after confirmation.
@@ -31,10 +31,11 @@ npm run dev
 - Use Refresh to see changes from another session.
 - The default date range extends through **August 31, 2027**, including both calendar views. The Days selector still offers shorter ranges.
 - Hover any date cell to see its project/task name, date as `Oct. 25 Sun`, and an integer day offset (negative for past dates, 0 today). Date headers show the date and offset.
-- Right-click a date cell for **Red, Blue, Green, Clear**. This changes that date only; other dates on the row are preserved.
+- Right-click a date cell for **Red, Yellow, Green, Clear**. This changes that date only; other dates on the row are preserved. Existing Blue schedule ranges were converted to Yellow. Date columns are 52px wide.
 - Drag the body of a colored cell to move its colors to another date/row and clear the source. Hover near a cell’s lower-right corner to show a blue circle. Hover the circle for a cross cursor, then drag it to paint. The circle disappears on mouse release. Painting fills the rectangle between source and destination, including intermediate dates and visible rows. A striped source carries all its colors. Drop outside the grid or press Escape to cancel. Color moves between rows save together; a conflicting edit in another session is rejected.
 - Press **Esc** to undo the most recent saved change in this browser session, including colors, node moves, edits, additions and deletions. Up to 30 changes are kept until reload. During a drag, Esc cancels the unfinished drag; in a dialog it closes the dialog. Undo rejects conflicting newer shared edits.
-- Drag node names directly to move the whole branch; no drag handle is displayed or required. Drop at a name's top/bottom edge to reorder, or in its middle to nest. Drop on **Drop node at root** to make it a root. Cycles and moves exceeding four levels are rejected.
+- Drag node names directly to move the whole branch; no drag handle is displayed or required. Drop at a name's top/bottom edge to reorder, or in its middle to nest. Use Edit node → Level 1 to make it a root. Cycles and moves exceeding four levels are rejected.
+- Right-click a node and choose **Archive** to hide its branch from the chart and calendar. The toolbar **Archive** button lists archived branches with **Restore** controls. Original hierarchy, notes, comments, and schedules are preserved. Independently archived children remain archived when an ancestor is restored. Esc can undo archive or restore.
 
 The app intentionally has **no login and no row-level access restrictions**, as requested. Anyone with the app or its publishable key can read and change this app's data. Only the public browser key is included; no Supabase secret or service-role key is used. Existing tables are untouched.
 
@@ -51,9 +52,10 @@ node scripts/notes-comments-check.mjs
 node scripts/notes-grid-check.mjs
 node scripts/notes-alignment-check.mjs
 node scripts/node-level-check.mjs
+node scripts/archive-check.mjs
 ```
 
-The browser checks create and clean up their own temporary branches in Supabase. `supabase/schema.sql` records the initial schema and reference seed; `supabase/add-colored-ranges.sql` adds multiple colors while preserving the prior schedule; `supabase/cell-color-edits.sql` adds atomic color edits. `supabase/undo-actions.sql` adds guarded undo. `supabase/notes-comments.sql` adds rich notes, timestamped comments, and extends undo to preserve both. All have already been applied to the connected project and should not be rerun there.
+The browser checks create and clean up their own temporary branches in Supabase. `supabase/schema.sql` records the initial schema and reference seed; `supabase/add-colored-ranges.sql` adds multiple colors while preserving the prior schedule; `supabase/cell-color-edits.sql` adds atomic color edits. `supabase/undo-actions.sql` adds guarded undo. `supabase/notes-comments.sql` adds rich notes, timestamped comments, and extends undo to preserve both. `supabase/archive-yellow.sql` adds archive state and converts Blue schedules to Yellow. All have already been applied to the connected project and should not be rerun there.
 
 ## Hosting
 
